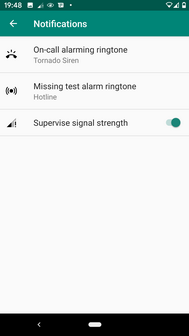
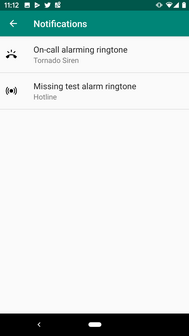
Document new settings of release 1.1.5-Bazooka

diff --git a/readme.md b/readme.md
@@ -72,7 +72,7 @@ PAssist can be installed from [Google&nbsp;Play](https://play.google.com/store/a
 Build PAssist on your own and then install the APK via ADB to your android phone.
 
 ## Configuration 
-The configuration is split into four blocks:
+The configuration is split into five blocks:
 
 ![Settings](images/PAssist_10.png)
 
@@ -123,18 +123,24 @@ Defines the weekdays on which the test alarms are checked.
 
 ![Test alarm settings](images/PAssist_14.png)
 
+### Supervise signal strength
+#### Supervise signal strength
+Defines whether the signal strength is supervised or not.
+
+#### Minimal signal strength
+Defines the lowest accepted signal strength level.
+
+#### Supervised subscription (for Dual SIM only)
+For dual SIM phones you can select the subscription for which the signal strength is supervised.
+
+![Overview](images/PAssist_19.png)
+
 ### Notifications
 #### Alarm ringtone
 Defines the ringtone that is used to alert for on-call alarms.
 
 #### Missing test alarm ringtone
 Defines the ringtone that is used to alert for missing test alarms.
-
-#### Supervise signal strength
-Defines whether the signal strength is supervised or not.
-
-#### Minimal signal strength
-Defines the lowest accepted signal strength level.
 
 ![Overview](images/PAssist_15.png)
 
